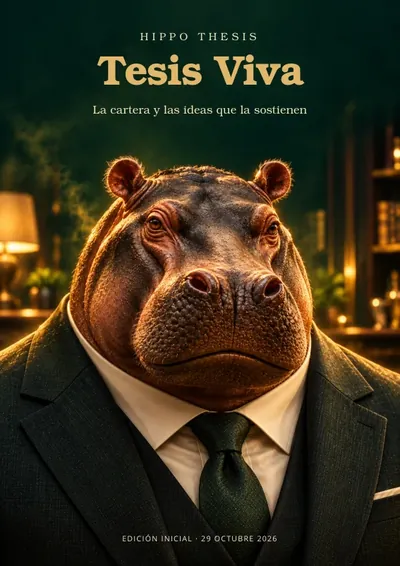
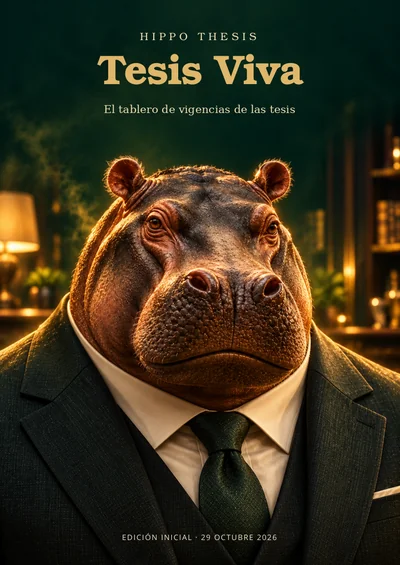
State Tesis Viva as a vigencia board on the home.
Replace the portfolio wording and cover, and add the existing NVIDIA download link inside the case section.

diff --git a/index.html b/index.html
@@ -144,10 +144,10 @@ header{grid-template-columns:auto minmax(0,1fr)}
     <div class="edition-copy"><h3>El valor <br>de lo cotidiano.</h3><p class="edition-sub">Consumo defensivo y rotación.</p><p>PepsiCo, McDonald’s y Hormel: negocios, valoración, escenarios y riesgos. Incluye el modelo inmobiliario de McDonald’s.</p><div class="edition-companies">PEPSICO <span>/</span> MCDONALD’S <span>/</span> HORMEL</div><div class="energy-actions"><a class="button gold" href="https://hippothesis.gumroad.com/l/dpedsq">Comprar Defensivas <span class="action-mark" aria-hidden="true"><svg viewBox="0 0 16 16" focusable="false"><path d="M3 8h10M9 4l4 4-4 4"/></svg></span></a><a class="button outline" href="b.html">Leer Defensivas <span class="action-mark" aria-hidden="true"><svg viewBox="0 0 16 16" focusable="false"><path d="M3 8h10M9 4l4 4-4 4"/></svg></span></a></div><svg class="price-art" viewBox="0 0 320 200" role="img" aria-labelledby="price-defensive-title" preserveAspectRatio="xMidYMid meet"><title id="price-defensive-title">USD 25, pago único</title><rect x="1" y="1" width="318" height="198" rx="10" fill="#123e35"/><text x="160" y="40" text-anchor="middle" fill="#f3f0e6" font-family="Arial, sans-serif" font-size="26" letter-spacing="1">USD</text><text x="160" y="128" text-anchor="middle" fill="#dfbe7b" font-family="Arial, sans-serif" font-size="86" font-weight="500">25</text><path d="M80 147H240" stroke="#f3f0e6" stroke-opacity=".3"/><text x="160" y="180" text-anchor="middle" fill="#f3f0e6" font-family="Arial, sans-serif" font-size="26">Pago único</text></svg><p class="main-note">70 páginas, ampliación MCD del 13/11 con corrección editorial del 18/11. Descarga única, sin suscripción.</p></div>
   </article>
   <div class="bundle reveal"><div><h3>Energía + Defensivas</h3><p>Energía y Defensivas en una sola compra. Sin suscripción. Tesis Viva no está incluida.</p></div><svg class="price-art" viewBox="0 0 320 200" role="img" aria-labelledby="price-bundle-title" preserveAspectRatio="xMidYMid meet"><title id="price-bundle-title">USD 45, pago único</title><rect x="1" y="1" width="318" height="198" rx="10" fill="#123e35"/><text x="160" y="40" text-anchor="middle" fill="#f3f0e6" font-family="Arial, sans-serif" font-size="26" letter-spacing="1">USD</text><text x="160" y="128" text-anchor="middle" fill="#dfbe7b" font-family="Arial, sans-serif" font-size="86" font-weight="500">45</text><path d="M80 147H240" stroke="#f3f0e6" stroke-opacity=".3"/><text x="160" y="180" text-anchor="middle" fill="#f3f0e6" font-family="Arial, sans-serif" font-size="26">Pago único</text></svg><div class="energy-actions"><a class="button gold" href="https://hippothesis.gumroad.com/l/yebgoj">Comprar el combo <span class="action-mark" aria-hidden="true"><svg viewBox="0 0 16 16" focusable="false"><path d="M3 8h10M9 4l4 4-4 4"/></svg></span></a><a class="button outline" href="bundle.html">Ver el combo <span class="action-mark" aria-hidden="true"><svg viewBox="0 0 16 16" focusable="false"><path d="M3 8h10M9 4l4 4-4 4"/></svg></span></a></div></div>
-</section><section class="case-study section-pad" id="caso-nvidia" aria-labelledby="case-title"><div class="case-heading"><h2 id="case-title">NVIDIA: <em>del análisis al cierre.</em></h2><p>Caso histórico de una operación corta cerrada el 5 de noviembre de 2026.</p></div><div class="case-dashboard"><div class="case-route-map" aria-label="Una pregunta, evidencia contrastada y revisión"><div><span>01</span><strong>Una pregunta</strong><p>Qué exige el precio.</p></div><div><span>02</span><strong>La evidencia</strong><p>Qué sostiene la idea y qué la contradice.</p></div><div><span>03</span><strong>La revisión</strong><p>Qué nos haría cambiar de opinión.</p></div></div></div><div class="case-method" id="case-method"><div class="case-method-tabs" role="tablist" aria-label="Cómo funciona el análisis"><button id="method-question" role="tab" aria-controls="method-panel" aria-selected="true" data-method="question" type="button">Pregunta</button><button id="method-evidence" role="tab" aria-controls="method-panel" aria-selected="false" tabindex="-1" data-method="evidence" type="button">Evidencia</button><button id="method-review" role="tab" aria-controls="method-panel" aria-selected="false" tabindex="-1" data-method="review" type="button">Revisión</button></div><div id="method-panel" role="tabpanel" aria-labelledby="method-question" tabindex="0"><p>NVIDIA podía ser una gran empresa y, aun así, tener un precio exigente. ¿Cuánto crecimiento rentable necesitaba para justificarlo?</p></div></div><div class="case-limits"><p>Las primeras entradas preceden a la investigación documentada.</p><p>Una posición corta puede generar pérdidas teóricamente ilimitadas. Un cierre favorable no demuestra que toda la hipótesis fuera correcta. Los resultados pasados no garantizan resultados futuros.</p></div></section><section class="viva section-pad" id="viva"><span id="tesis-viva" class="anchor-alias" aria-hidden="true"></span>
-  <div class="viva-copy reveal"><h2>Una tesis también <br><em>se revisa.</em></h2><p class="viva-lead">Tesis Viva reúne la cartera y las ideas que la sostienen.</p><p>Integra consumo defensivo, energía, el caso histórico de NVIDIA y el análisis de duración de TLT, junto con la cartera del autor y la estrategia que conecta las posiciones.</p><dl><div><dt>Semanal</dt><dd>Cartera y estrategia.</dd></div><div><dt>Mensual</dt><dd>Tesis completas.</dd></div></dl><div class="viva-price-options"><svg class="price-art" viewBox="0 0 320 200" role="img" aria-labelledby="price-viva-month-title" preserveAspectRatio="xMidYMid meet"><title id="price-viva-month-title">USD 40, por mes, cobro recurrente</title><rect x="1" y="1" width="318" height="198" rx="10" fill="#f3f0e6"/><text x="160" y="40" text-anchor="middle" fill="#123e35" font-family="Arial, sans-serif" font-size="26" letter-spacing="1">USD</text><text x="160" y="128" text-anchor="middle" fill="#8a6528" font-family="Arial, sans-serif" font-size="86" font-weight="500">40</text><path d="M80 147H240" stroke="#123e35" stroke-opacity=".3"/><text x="160" y="180" text-anchor="middle" fill="#123e35" font-family="Arial, sans-serif" font-size="26">por mes</text></svg><svg class="price-art" viewBox="0 0 320 200" role="img" aria-labelledby="price-viva-year-title" preserveAspectRatio="xMidYMid meet"><title id="price-viva-year-title">USD 400, por año, cobro recurrente</title><rect x="1" y="1" width="318" height="198" rx="10" fill="#f3f0e6"/><text x="160" y="40" text-anchor="middle" fill="#123e35" font-family="Arial, sans-serif" font-size="26" letter-spacing="1">USD</text><text x="160" y="128" text-anchor="middle" fill="#8a6528" font-family="Arial, sans-serif" font-size="86" font-weight="500">400</text><path d="M80 147H240" stroke="#123e35" stroke-opacity=".3"/><text x="160" y="180" text-anchor="middle" fill="#123e35" font-family="Arial, sans-serif" font-size="26">por año</text></svg></div><a class="button gold" href="https://hippothesis.gumroad.com/l/ylired">Conocer Tesis Viva <span class="action-mark" aria-hidden="true"><svg viewBox="0 0 16 16" focusable="false"><path d="M3 8h10M9 4l4 4-4 4"/></svg></span></a><p class="main-note">Cobro recurrente según el período elegido. El acceso al contenido termina al finalizar la suscripción. Actualizaciones editoriales, no automatizadas.</p></div>
+</section><section class="case-study section-pad" id="caso-nvidia" aria-labelledby="case-title"><div class="case-heading"><h2 id="case-title">NVIDIA: <em>del análisis al cierre.</em></h2><p>Caso histórico de una operación corta cerrada el 5 de noviembre de 2026.</p></div><div class="case-dashboard"><div class="case-route-map" aria-label="Una pregunta, evidencia contrastada y revisión"><div><span>01</span><strong>Una pregunta</strong><p>Qué exige el precio.</p></div><div><span>02</span><strong>La evidencia</strong><p>Qué sostiene la idea y qué la contradice.</p></div><div><span>03</span><strong>La revisión</strong><p>Qué nos haría cambiar de opinión.</p></div></div></div><div class="case-method" id="case-method"><div class="case-method-tabs" role="tablist" aria-label="Cómo funciona el análisis"><button id="method-question" role="tab" aria-controls="method-panel" aria-selected="true" data-method="question" type="button">Pregunta</button><button id="method-evidence" role="tab" aria-controls="method-panel" aria-selected="false" tabindex="-1" data-method="evidence" type="button">Evidencia</button><button id="method-review" role="tab" aria-controls="method-panel" aria-selected="false" tabindex="-1" data-method="review" type="button">Revisión</button></div><div id="method-panel" role="tabpanel" aria-labelledby="method-question" tabindex="0"><p>NVIDIA podía ser una gran empresa y, aun así, tener un precio exigente. ¿Cuánto crecimiento rentable necesitaba para justificarlo?</p></div></div><div class="case-limits"><p>Las primeras entradas preceden a la investigación documentada.</p><p>Una posición corta puede generar pérdidas teóricamente ilimitadas. Un cierre favorable no demuestra que toda la hipótesis fuera correcta. Los resultados pasados no garantizan resultados futuros.</p></div><p class="main-note"><a class="text-button sample-download" href="https://hippothesis.gumroad.com/l/gkdqcm">Ver cómo descargar el caso completo <span class="action-mark" aria-hidden="true"><svg viewBox="0 0 16 16" focusable="false"><path d="M3 8h10M9 4l4 4-4 4"/></svg></span></a></p></section><section class="viva section-pad" id="viva"><span id="tesis-viva" class="anchor-alias" aria-hidden="true"></span>
+  <div class="viva-copy reveal"><h2>Una tesis también <br><em>se revisa.</em></h2><p class="viva-lead">Tesis Viva es el tablero semanal de vigencias de las tesis publicadas por Hippo Thesis.</p><p>Integra consumo defensivo, energía y el caso histórico de NVIDIA.</p><p>El autor tiene posiciones en algunas de las empresas analizadas.</p><dl><div><dt>Semanal</dt><dd>Vigencia de cada tesis, con fecha y fuente.</dd></div><div><dt>Mensual</dt><dd>Tesis completas.</dd></div></dl><div class="viva-price-options"><svg class="price-art" viewBox="0 0 320 200" role="img" aria-labelledby="price-viva-month-title" preserveAspectRatio="xMidYMid meet"><title id="price-viva-month-title">USD 40, por mes, cobro recurrente</title><rect x="1" y="1" width="318" height="198" rx="10" fill="#f3f0e6"/><text x="160" y="40" text-anchor="middle" fill="#123e35" font-family="Arial, sans-serif" font-size="26" letter-spacing="1">USD</text><text x="160" y="128" text-anchor="middle" fill="#8a6528" font-family="Arial, sans-serif" font-size="86" font-weight="500">40</text><path d="M80 147H240" stroke="#123e35" stroke-opacity=".3"/><text x="160" y="180" text-anchor="middle" fill="#123e35" font-family="Arial, sans-serif" font-size="26">por mes</text></svg><svg class="price-art" viewBox="0 0 320 200" role="img" aria-labelledby="price-viva-year-title" preserveAspectRatio="xMidYMid meet"><title id="price-viva-year-title">USD 400, por año, cobro recurrente</title><rect x="1" y="1" width="318" height="198" rx="10" fill="#f3f0e6"/><text x="160" y="40" text-anchor="middle" fill="#123e35" font-family="Arial, sans-serif" font-size="26" letter-spacing="1">USD</text><text x="160" y="128" text-anchor="middle" fill="#8a6528" font-family="Arial, sans-serif" font-size="86" font-weight="500">400</text><path d="M80 147H240" stroke="#123e35" stroke-opacity=".3"/><text x="160" y="180" text-anchor="middle" fill="#123e35" font-family="Arial, sans-serif" font-size="26">por año</text></svg></div><a class="button gold" href="https://hippothesis.gumroad.com/l/ylired">Conocer Tesis Viva <span class="action-mark" aria-hidden="true"><svg viewBox="0 0 16 16" focusable="false"><path d="M3 8h10M9 4l4 4-4 4"/></svg></span></a><p class="main-note">Cobro recurrente según el período elegido. El acceso al contenido termina al finalizar la suscripción. Actualizaciones editoriales, no automatizadas.</p></div>
   <div class="viva-art reveal"><div class="viva-line" aria-hidden="true"></div><div class="viva-circle" aria-hidden="true"></div><img src="assets/media/cover-viva.webp" srcset="assets/media/cover-viva-400.webp 400w, assets/media/cover-viva.webp 567w" sizes="(max-width: 650px) 70vw, 280px" width="567" height="802" alt="Portada vigente de Tesis Viva" loading="lazy" decoding="async"></div>
-</section><section class="decision section-pad" aria-labelledby="decision-title"><div class="decision-title reveal"><h2 id="decision-title">¿Por dónde <br><em>querés empezar?</em></h2></div><div class="decision-rows reveal"><a href="#muestra"><span>Quiero conocer el método.</span> <strong>Caso NVIDIA gratuito</strong> <span class="action-mark" aria-hidden="true"><svg viewBox="0 0 16 16" focusable="false"><path d="M3 8h10M9 4l4 4-4 4"/></svg></span></a><a href="#coleccion"><span>Quiero estudiar un negocio.</span> <strong>Una tesis individual</strong> <span class="action-mark" aria-hidden="true"><svg viewBox="0 0 16 16" focusable="false"><path d="M3 8h10M9 4l4 4-4 4"/></svg></span></a><a href="#viva"><span>Quiero seguir la cartera y sus revisiones.</span> <strong>La membresía Tesis Viva</strong> <span class="action-mark" aria-hidden="true"><svg viewBox="0 0 16 16" focusable="false"><path d="M3 8h10M9 4l4 4-4 4"/></svg></span></a><p class="main-note">Las tesis individuales son compras únicas. Tesis Viva tiene cobro recurrente. El combo incluye sólo Energía y Defensivas.</p></div></section><section class="author section-pad" id="autor"><div><h2>Matías González.</h2><div class="author-credentials"><span>Abogado · UBA</span><span>Executive MBA</span><span>Mercado de Capitales · UCEMA</span></div></div><div><p>Creé Hippo para compartir una forma de analizar: conectar negocios, números, riesgos y contexto, y reconocer qué datos podrían demostrar que una idea está equivocada.</p><details class="author-background"><summary>Conocer mi trayectoria</summary><p>Soy Matías González, creador de Hippo Thesis. Soy abogado por la Universidad de Buenos Aires, tengo un Executive MBA y una Diplomatura en Mercado de Capitales de UCEMA.</p><p>Mi trayectoria combina banca corporativa, asesoramiento patrimonial, gestión de riesgos y análisis financiero. Cada tesis parte de una pregunta, conecta fuentes y supuestos, plantea escenarios y llega a una conclusión que se puede seguir y cuestionar.</p></details></div></section><section class="transparency section-pad" id="transparencia"><span id="revision" class="anchor-alias" aria-hidden="true"></span><h2>La letra importante, <br><em>sin esconder.</em></h2><details id="indicador-hippo"><summary>Índice de Respaldo Hippo: contexto y límites <span class="disclosure-mark" aria-hidden="true"><svg viewBox="0 0 16 16" focusable="false"><path d="M3 8h10M8 3v10"/></svg></span></summary><div class="legacy-content" id="preserved-irh"><div class="irh" id="legacy-indicador-hippo"><div class="irh-head"><div><span class="irh-stamp">INDICADOR HIPPO · NVDA</span><h3>Una tesis necesita seguimiento.</h3><p>El Índice de Respaldo Hippo reúne señales para revisar qué cambió y qué riesgos siguen abiertos. Dos lecturas históricas de la <strong>hipótesis bajista sobre NVIDIA</strong>, no una recomendación de operar.</p></div></div><div class="irh-grid"><article class="irh-reading"><h4>Referencia retrospectiva</h4><p class="irh-date">5 septiembre 2026 <br>Cierre del 4 de septiembre</p><div class="irh-score-label">Respaldo IRH · sobre el peso evaluado</div><div class="irh-score-image first"></div><p class="irh-meta"><strong>Peso evaluado: 57%</strong> <br>Rango por datos no resueltos: <br>20–63 / 100</p></article><article class="irh-reading"><h4>Lectura histórica · 31 octubre</h4><p class="irh-date">31 octubre 2026 <br>Cierre del 30 de octubre</p><div class="irh-score-label">Respaldo IRH · sobre el peso evaluado</div><div class="irh-score-image second"></div><p class="irh-meta"><strong>Peso evaluado: 64,5%</strong> <br>Rango por datos no resueltos: <br>41–76 / 100 (redondeado)</p></article></div><p class="irh-note"><strong>Qué cambió:</strong> el aumento proviene principalmente de señales técnicas. La explicación económica de la caída no está confirmada. El 35,5% del peso actual sigue sin resolver.</p><p class="irh-method">Metodología interna experimental v0.3, creada el 31/10/2026 y aplicada retrospectivamente a dos cortes. No es un historial publicado en esas fechas. El índice no mide probabilidad, acierto ni rentabilidad. Los rangos reflejan datos no resueltos; no son intervalos de probabilidad.</p><p class="irh-note"><strong>Antes de decidir, revisá la lectura y sus límites.</strong></p><div class="irh-actions"><a class="cta-primary" href="#viva">Conocé Tesis Viva →</a> <a class="irh-pdf" href="https://hippo-thesis.com/muestras/NVDA_IRH_indicador_publico_31_octubre_2026.pdf" target="_blank" rel="noopener noreferrer">Ver metodología y fuentes · PDF</a></div><p class="irh-small">Contenido educativo; no es asesoramiento personalizado.</p></div></div></details><details><summary>Compra, acceso y alcance <span class="disclosure-mark" aria-hidden="true"><svg viewBox="0 0 16 16" focusable="false"><path d="M3 8h10M8 3v10"/></svg></span></summary><div class="legacy-content"><p>Las ediciones individuales y el combo son PDFs de compra única, sin suscripción ni seguimiento contratado. Tesis Viva es una membresía con cobro recurrente mensual o anual según el período elegido.</p><p>La compra y la entrega se realizan a través de Gumroad. No hay envío físico. Investigación general y contenido educativo, sin asesoramiento personalizado, señales de trading ni promesas de rentabilidad.</p><p>La medición de visitas y campañas se explica en Privacidad. Imagen satelital: NASA Earth Observatory, Black Marble 2016.</p></div></details></section><section class="closing section-pad"><h2>Una buena pregunta <br>es un buen <em>comienzo.</em></h2><div><a class="button gold" href="#coleccion">Elegir mi próxima lectura <span class="action-mark" aria-hidden="true"><svg viewBox="0 0 16 16" focusable="false"><path d="M3 8h10M9 4l4 4-4 4"/></svg></span></a><a class="text-button" href="#muestra">Prefiero empezar por el caso gratuito <span class="action-mark" aria-hidden="true"><svg viewBox="0 0 16 16" focusable="false"><path d="M3 8h10M9 4l4 4-4 4"/></svg></span></a></div></section></main><footer><div><img src="assets/media/logo-lockup-390.webp" srcset="assets/media/logo-lockup-390.webp 390w, assets/media/logo-lockup.webp 1800w" sizes="130px" width="1800" height="600" alt="Hippo Thesis" loading="lazy" decoding="async"><p>Convicción con condiciones. <br>Evidencia antes que relato.</p></div><p>Invertir implica riesgo. <br>Los resultados pasados no garantizan resultados futuros.</p><a class="text-button" href="#transparencia">Información importante</a><div class="public-footer-links"><a href="mailto:hippo-thesis@hippo-thesis.com">Tengo una duda antes de comprar</a><a href="privacidad.html">Privacidad de tus datos</a></div><p class="consumer-rights-note">Arrepentimiento: 10 días corridos desde la contratación o la entrega, lo último que ocurra. Escribí desde el correo de la compra e incluí, si lo tenés, el número de pedido. Baja de Tesis Viva: cancelar frena los cobros futuros. También podés darte de baja en el panel de Gumroad.</p></footer><dialog id="review-dialog" aria-labelledby="dialog-title"><div class="dialog-top"><span id="dialog-section-label">Caso histórico NVIDIA</span><button type="button" id="close-dialog" aria-label="Cerrar detalle">×</button></div><div id="dialog-content"></div></dialog><script>'use strict';
+</section><section class="decision section-pad" aria-labelledby="decision-title"><div class="decision-title reveal"><h2 id="decision-title">¿Por dónde <br><em>querés empezar?</em></h2></div><div class="decision-rows reveal"><a href="#muestra"><span>Quiero conocer el método.</span> <strong>Caso NVIDIA gratuito</strong> <span class="action-mark" aria-hidden="true"><svg viewBox="0 0 16 16" focusable="false"><path d="M3 8h10M9 4l4 4-4 4"/></svg></span></a><a href="#coleccion"><span>Quiero estudiar un negocio.</span> <strong>Una tesis individual</strong> <span class="action-mark" aria-hidden="true"><svg viewBox="0 0 16 16" focusable="false"><path d="M3 8h10M9 4l4 4-4 4"/></svg></span></a><a href="#viva"><span>Quiero seguir qué tesis siguen vigentes.</span> <strong>La membresía Tesis Viva</strong> <span class="action-mark" aria-hidden="true"><svg viewBox="0 0 16 16" focusable="false"><path d="M3 8h10M9 4l4 4-4 4"/></svg></span></a><p class="main-note">Las tesis individuales son compras únicas. Tesis Viva tiene cobro recurrente. El combo incluye sólo Energía y Defensivas.</p></div></section><section class="author section-pad" id="autor"><div><h2>Matías González.</h2><div class="author-credentials"><span>Abogado · UBA</span><span>Executive MBA</span><span>Mercado de Capitales · UCEMA</span></div></div><div><p>Creé Hippo para compartir una forma de analizar: conectar negocios, números, riesgos y contexto, y reconocer qué datos podrían demostrar que una idea está equivocada.</p><details class="author-background"><summary>Conocer mi trayectoria</summary><p>Soy Matías González, creador de Hippo Thesis. Soy abogado por la Universidad de Buenos Aires, tengo un Executive MBA y una Diplomatura en Mercado de Capitales de UCEMA.</p><p>Mi trayectoria combina banca corporativa, planificación patrimonial, gestión de riesgos y análisis financiero. Cada tesis parte de una pregunta, conecta fuentes y supuestos, plantea escenarios y llega a una conclusión que se puede seguir y cuestionar.</p></details></div></section><section class="transparency section-pad" id="transparencia"><span id="revision" class="anchor-alias" aria-hidden="true"></span><h2>La letra importante, <br><em>sin esconder.</em></h2><details id="indicador-hippo"><summary>Índice de Respaldo Hippo: contexto y límites <span class="disclosure-mark" aria-hidden="true"><svg viewBox="0 0 16 16" focusable="false"><path d="M3 8h10M8 3v10"/></svg></span></summary><div class="legacy-content" id="preserved-irh"><div class="irh" id="legacy-indicador-hippo"><div class="irh-head"><div><span class="irh-stamp">INDICADOR HIPPO · NVDA</span><h3>Una tesis necesita seguimiento.</h3><p>El Índice de Respaldo Hippo reúne señales para revisar qué cambió y qué riesgos siguen abiertos. Dos lecturas históricas de la <strong>hipótesis bajista sobre NVIDIA</strong>, no una recomendación de operar.</p></div></div><div class="irh-grid"><article class="irh-reading"><h4>Referencia retrospectiva</h4><p class="irh-date">5 septiembre 2026 <br>Cierre del 4 de septiembre</p><div class="irh-score-label">Respaldo IRH · sobre el peso evaluado</div><div class="irh-score-image first"></div><p class="irh-meta"><strong>Peso evaluado: 57%</strong> <br>Rango por datos no resueltos: <br>20–63 / 100</p></article><article class="irh-reading"><h4>Lectura histórica · 31 octubre</h4><p class="irh-date">31 octubre 2026 <br>Cierre del 30 de octubre</p><div class="irh-score-label">Respaldo IRH · sobre el peso evaluado</div><div class="irh-score-image second"></div><p class="irh-meta"><strong>Peso evaluado: 64,5%</strong> <br>Rango por datos no resueltos: <br>41–76 / 100 (redondeado)</p></article></div><p class="irh-note"><strong>Qué cambió:</strong> el aumento proviene principalmente de señales técnicas. La explicación económica de la caída no está confirmada. El 35,5% del peso actual sigue sin resolver.</p><p class="irh-method">Metodología interna experimental v0.3, creada el 31/10/2026 y aplicada retrospectivamente a dos cortes. No es un historial publicado en esas fechas. El índice no mide probabilidad, acierto ni rentabilidad. Los rangos reflejan datos no resueltos; no son intervalos de probabilidad.</p><p class="irh-note"><strong>Antes de decidir, revisá la lectura y sus límites.</strong></p><div class="irh-actions"><a class="cta-primary" href="#viva">Conocé Tesis Viva →</a> <a class="irh-pdf" href="https://hippo-thesis.com/muestras/NVDA_IRH_indicador_publico_31_octubre_2026.pdf" target="_blank" rel="noopener noreferrer">Ver metodología y fuentes · PDF</a></div><p class="irh-small">Contenido educativo; no es asesoramiento personalizado.</p></div></div></details><details><summary>Compra, acceso y alcance <span class="disclosure-mark" aria-hidden="true"><svg viewBox="0 0 16 16" focusable="false"><path d="M3 8h10M8 3v10"/></svg></span></summary><div class="legacy-content"><p>Las ediciones individuales y el combo son PDFs de compra única, sin suscripción ni seguimiento contratado. Tesis Viva es una membresía con cobro recurrente mensual o anual según el período elegido.</p><p>La compra y la entrega se realizan a través de Gumroad. No hay envío físico. Investigación general y contenido educativo, sin asesoramiento personalizado, señales de trading ni promesas de rentabilidad.</p><p>La medición de visitas y campañas se explica en Privacidad. Imagen satelital: NASA Earth Observatory, Black Marble 2016.</p></div></details></section><section class="closing section-pad"><h2>Una buena pregunta <br>es un buen <em>comienzo.</em></h2><div><a class="button gold" href="#coleccion">Elegir mi próxima lectura <span class="action-mark" aria-hidden="true"><svg viewBox="0 0 16 16" focusable="false"><path d="M3 8h10M9 4l4 4-4 4"/></svg></span></a><a class="text-button" href="#muestra">Prefiero empezar por el caso gratuito <span class="action-mark" aria-hidden="true"><svg viewBox="0 0 16 16" focusable="false"><path d="M3 8h10M9 4l4 4-4 4"/></svg></span></a></div></section></main><footer><div><img src="assets/media/logo-lockup-390.webp" srcset="assets/media/logo-lockup-390.webp 390w, assets/media/logo-lockup.webp 1800w" sizes="130px" width="1800" height="600" alt="Hippo Thesis" loading="lazy" decoding="async"><p>Convicción con condiciones. <br>Evidencia antes que relato.</p></div><p>Invertir implica riesgo. <br>Los resultados pasados no garantizan resultados futuros.</p><a class="text-button" href="#transparencia">Información importante</a><div class="public-footer-links"><a href="mailto:hippo-thesis@hippo-thesis.com">Tengo una duda antes de comprar</a><a href="privacidad.html">Privacidad de tus datos</a></div><p class="consumer-rights-note">Arrepentimiento: 10 días corridos desde la contratación o la entrega, lo último que ocurra. Escribí desde el correo de la compra e incluí, si lo tenés, el número de pedido. Baja de Tesis Viva: cancelar frena los cobros futuros. También podés darte de baja en el panel de Gumroad.</p></footer><dialog id="review-dialog" aria-labelledby="dialog-title"><div class="dialog-top"><span id="dialog-section-label">Caso histórico NVIDIA</span><button type="button" id="close-dialog" aria-label="Cerrar detalle">×</button></div><div id="dialog-content"></div></dialog><script>'use strict';
 const dialog=document.querySelector('#review-dialog');
 let opener=null;
 const pageDetails={
